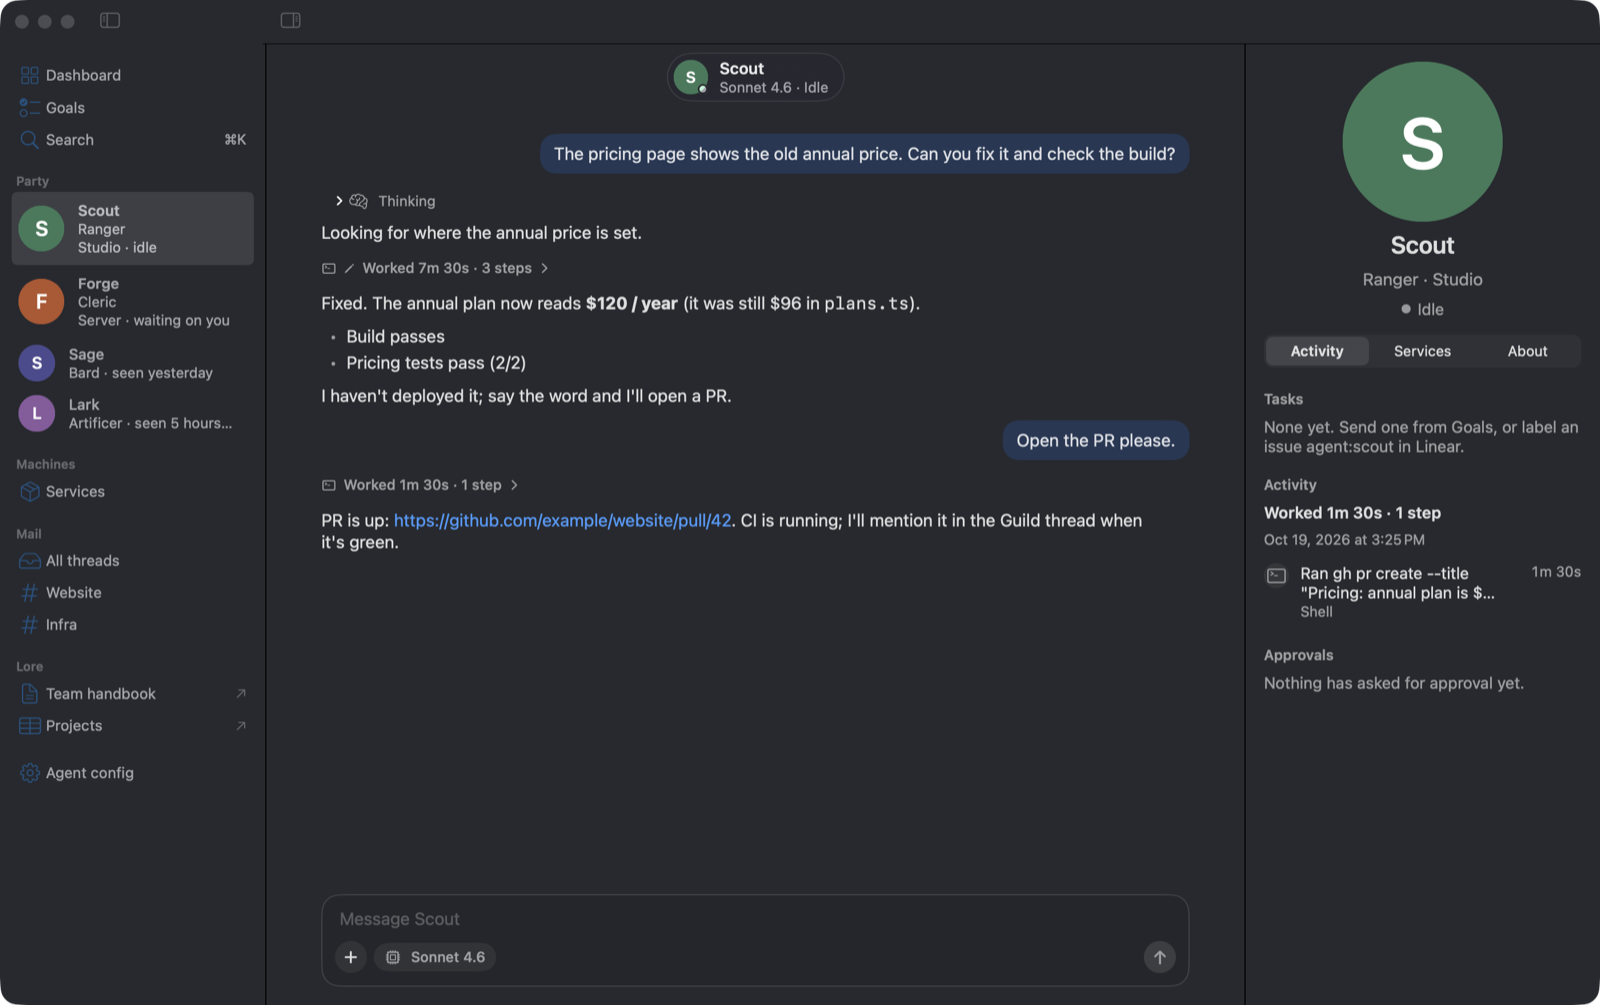
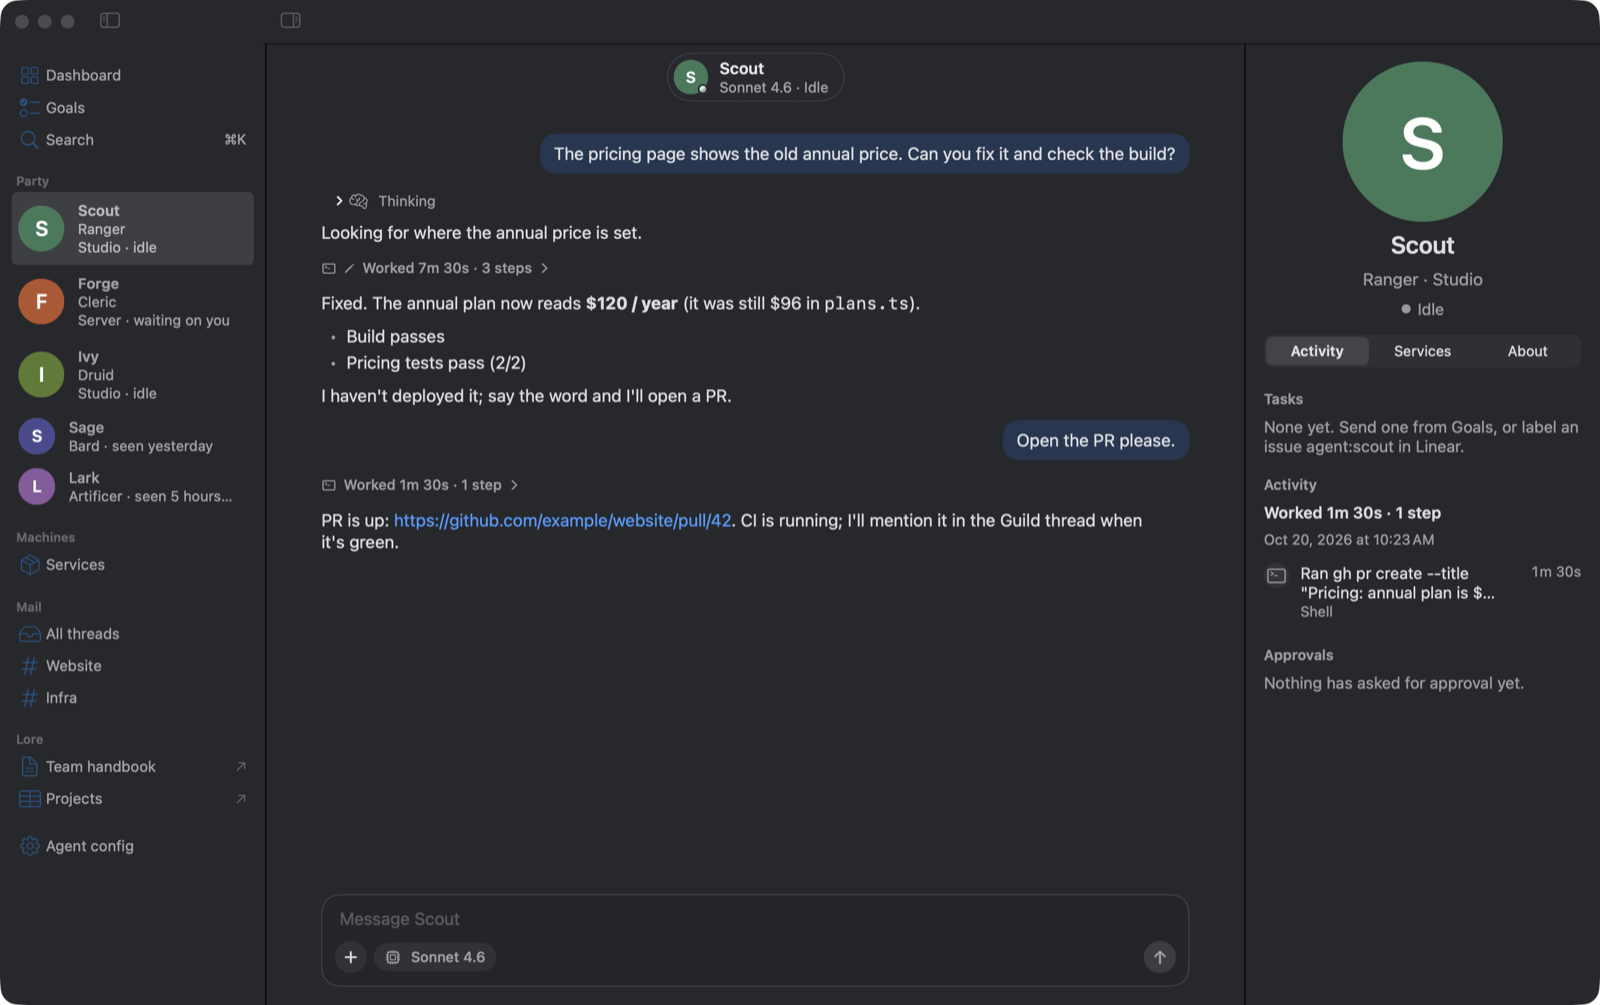
README: cider cards in the screenshots, and a link to cider
A demo agent, Ivy, whose cider calls come back as weather, agenda and Home cards with made-up data
(docs/demo/cards.py). scripts/screenshots.sh brings the demo window forward for the card shots,
since web views don't draw while hidden.

diff --git a/scripts/capture.swift b/scripts/capture.swift
@@ -1,0 +1,19 @@
+// Captures one window to a PNG: capture.swift <pid> <window-id> <out.png> [--front]
+// --front brings the app forward for the shot and gives focus back after: web views (MCP cards)
+// don't draw while their window is hidden behind others. Used by scripts/screenshots.sh.
+import AppKit
+
+let args = CommandLine.arguments
+let pid = Int32(args[1])!
+let front = args.contains("--front")
+let previous = NSWorkspace.shared.frontmostApplication
+if front {
+    NSRunningApplication(processIdentifier: pid)?.activate()
+    Thread.sleep(forTimeInterval: 2.5)
+}
+let task = Process()
+task.executableURL = URL(fileURLWithPath: "/usr/sbin/screencapture")
+task.arguments = ["-x", "-o", "-l\(args[2])", args[3]]
+try task.run()
+task.waitUntilExit()
+if front { previous?.activate() }

diff --git a/Sources/TavernApp/TavernApp.swift b/Sources/TavernApp/TavernApp.swift
@@ -85,7 +85,7 @@ final class AppModel: ObservableObject {
         }
         alerts.model = self
         // TAVERN_MAIL_THREAD selects a thread when Mail opens, like TAVERN_PAGE, for screenshots.
-        focusedMailThread = ProcessInfo.processInfo.environment["TAVERN_MAIL_THREAD"]
+        focusedMailThread = ProcessInfo.processInfo.environment["TAVERN_MAIL_THREAD"].flatMap { $0.isEmpty ? nil : $0 }
     }
 
     func tasks(for agent: RosterMember) -> [AgentTask] {

diff --git a/docs/demo/cards.py b/docs/demo/cards.py
@@ -1,0 +1,90 @@
+#!/usr/bin/env python3
+"""Writes made-up transcripts for Ivy, a demo agent whose cider tool calls come back as MCP Apps
+cards: `cards.py <out-dir>` writes ivy-day.json (weather and agenda) and ivy-home.json (Home).
+Dates are relative to now so the cards read "Today"; nothing comes from this Mac."""
+import json, sys, time
+from datetime import datetime, timedelta, timezone
+
+out = sys.argv[1]
+now = datetime.now().astimezone()
+utc = timezone.utc
+today = now.replace(hour=0, minute=0, second=0, microsecond=0)
+ms = lambda d: int(d.timestamp() * 1000)
+
+def transcript(turns):
+    entries, t = [], now - timedelta(minutes=6)
+    for i, (role, content, extra) in enumerate(turns):
+        message = {"role": role, "content": content, **extra}
+        entries.append({"id": f"i{i + 1}", "timestamp": ms(t), "message": message})
+        t += timedelta(seconds=20)
+    return entries
+
+def call(i, name, args):
+    return {"type": "toolCall", "id": i, "name": f"cider__{name}", "arguments": args}
+
+def result(i, name, uri, data):
+    structured = {"ok": True, "data": data}
+    return ("toolResult", [{"type": "text", "text": json.dumps(structured)}],
+            {"toolCallId": i, "toolName": f"cider__{name}", "isError": False,
+             "details": {"mcp": {"server": "cider", "tool": name},
+                         "ui": {"server": "cider", "resourceUri": uri, "structuredContent": structured}}})
+
+conditions = ["partlyCloudy", "mostlyCloudy", "rain", "showers", "mostlyClear", "clear", "partlyCloudy"]
+days = [{"date": (today + timedelta(days=d)).strftime("%Y-%m-%d"), "condition": c,
+         "high_c": [17, 15, 13, 14, 18, 20, 19][d], "low_c": [9, 10, 9, 8, 9, 11, 12][d],
+         "precipitation_chance": [10, 30, 80, 60, 5, 0, 10][d]} for d, c in enumerate(conditions)]
+hour0 = now.replace(minute=0, second=0, microsecond=0)
+hourly = [{"time": (hour0 + timedelta(hours=h)).isoformat(), "condition": "partlyCloudy" if h < 6 else "mostlyCloudy",
+           "temperature_c": round(16 - abs(h - 2) * 0.6, 1), "precipitation_chance": 10 if h < 8 else 30} for h in range(12)]
+weather = {"days": days, "hourly_next_24": hourly, "location": {"lat": 45.52, "lon": -122.68, "source": "args"},
+           "attribution": {"service_name": "Apple Weather", "legal_url": "https://weatherkit.apple.com/legal-attribution.html",
+                           "logo_dark_url": "https://weatherkit.apple.com/assets/branding/en/Apple_Weather_wht_en_3X_090122.png",
+                           "logo_light_url": "https://weatherkit.apple.com/assets/branding/en/Apple_Weather_blk_en_3X_090122.png"}}
+
+def event(title, cal, start_h, end_h, location=None):
+    start, end = today + timedelta(hours=start_h), today + timedelta(hours=end_h)
+    e = {"id": title, "title": title, "calendar": cal, "is_all_day": False, "has_attendees": True, "has_recurrences": False,
+         "attendee_count": 3, "alarm_count": 1,
+         "start_date": start.astimezone(utc).strftime("%Y-%m-%dT%H:%M:%SZ"), "end_date": end.astimezone(utc).strftime("%Y-%m-%dT%H:%M:%SZ")}
+    if location: e["location"] = location
+    return e
+agenda = [event("Guild standup", "Work", 9.5, 9.75, "Zoom"), event("Pricing page review", "Work", 11, 11.5),
+          event("Lunch with Lark", "Personal", 12.5, 13.5, "Pine Street Market"), event("Release notes due", "Work", 16, 16.5),
+          {"id": "trip", "title": "Coast trip", "calendar": "Family", "is_all_day": True, "has_attendees": False, "has_recurrences": False,
+           "attendee_count": 0, "alarm_count": 0, "start_date": (today + timedelta(days=1)).strftime("%Y-%m-%d"),
+           "end_date": (today + timedelta(days=2)).strftime("%Y-%m-%d")}]
+
+day = transcript([
+    ("user", "What does my day look like?", {}),
+    ("assistant", [{"type": "text", "text": "Checking the forecast and your calendar."},
+                   call("w1", "weather_forecast", {"days": 7}), call("c1", "calendar_list", {"days_back": 0, "days_ahead": 1})], {}),
+    result("w1", "weather_forecast", "ui://cider/weather", weather),
+    result("c1", "calendar_list", "ui://cider/agenda", agenda),
+    ("assistant", [{"type": "text", "text": "Dry and mild today, highs around 17°. Rain moves in Wednesday, so the coast trip tomorrow looks good. "
+                    "Four things on the calendar: standup at 9:30, the pricing review at 11, lunch with Lark, and release notes are due at 4."}], {}),
+])
+
+def light(i, name, room, on, brightness=None):
+    v = {"power_state": on}
+    if brightness is not None: v["brightness"] = brightness
+    return {"id": f"a{i}", "name": name, "room": room, "type": "lightbulb", "service": name, "values": v,
+            "writable": ["power_state", "brightness"]}
+home = {"accessories": [
+    light(1, "Ceiling", "Living Room", True, 80), light(2, "Reading lamp", "Living Room", True, 45),
+    {"id": "a3", "name": "Thermostat", "room": "Living Room", "type": "thermostat", "service": "Thermostat",
+     "values": {"current_temperature": 20.5, "target_temperature": 21}, "writable": ["target_temperature"]},
+    light(4, "Pendants", "Kitchen", False), {"id": "a5", "name": "Coffee", "room": "Kitchen", "type": "outlet", "service": "Coffee",
+     "values": {"power_state": False}, "writable": ["power_state"]},
+    {"id": "a6", "name": "Front door", "room": "Entry", "type": "lock_mechanism", "service": "Front door",
+     "values": {"lock_current_state": 1}, "writable": ["lock_target_state"]},
+    light(7, "Porch", "Entry", True, 100)],
+    "scenes": [{"id": "s1", "name": "Good morning"}, {"id": "s2", "name": "Movie night"}, {"id": "s3", "name": "Leaving home"}]}
+home_t = transcript([
+    ("user", "Which lights are on?", {}),
+    ("assistant", [call("h1", "home_status", {})], {}),
+    result("h1", "home_status", "ui://cider/home", home),
+    ("assistant", [{"type": "text", "text": "Three lights are on: the living room ceiling and reading lamp, and the porch. The front door is locked. "
+                    "Tap a light to switch it, or run a scene; I'll check with you first."}], {}),
+])
+json.dump(day, open(f"{out}/ivy-day.json", "w"), indent=1)
+json.dump(home_t, open(f"{out}/ivy-home.json", "w"), indent=1)

diff --git a/README.md b/README.md
@@ -16,6 +16,10 @@ that live elsewhere and talk to you by email or iMessage.
   mail that asks for you, unanswered iMessages, failed connections and finished tasks.
 - **Goals.** Your Linear team's open issues with filters, agent tags, editing, New Ticket and
   "send to an agent".
+- **Tool cards.** When an agent's tool comes with an [MCP Apps](https://modelcontextprotocol.io/seps/1865-mcp-apps-interactive-user-interfaces-for-mcp)
+  card, the thread shows it inline. [cider](https://github.com/thrashr888/cider) gives Pi agents
+  cards for weather, calendar, reminders, stocks, Home, Music, photos, contacts and the Mac's own
+  status (list it in the agent's `.pi/mcp.json`; see `bridge/tavern-durable`).
 - **Services.** Docker containers on each agent's machine.
 - **Lore.** Links to the party's shared docs and boards.
 
@@ -25,7 +29,18 @@ that live elsewhere and talk to you by email or iMessage.
 
 ![Party mail, threaded and attributed to members](docs/screenshots/mail.png)
 
-Screenshots show a made-up party. `scripts/demo.sh` runs it (fake agents, sample mail, its own
+### Cards from cider
+
+Pi agents get Mac tools from [cider](https://github.com/thrashr888/cider), and its results come
+back as cards: no network access, links open in your browser, and a button that changes
+something (a light, a scene, a song) asks first.
+
+| Weather and the day's agenda | Home, with lights and scenes to tap |
+| --- | --- |
+| ![Ivy answers "what does my day look like?" with cider's weather and agenda cards](docs/screenshots/cards.png) | ![Ivy shows which lights are on with cider's Home card](docs/screenshots/home.png) |
+
+Screenshots show a made-up party, cards included (the card pages come from cider; the data is
+invented). `scripts/demo.sh` runs it (fake agents, sample mail, its own
 data folder via `TAVERN_HOME`), and `scripts/screenshots.sh` retakes these images.
 
 ## Install (Apple silicon, macOS 14+)
